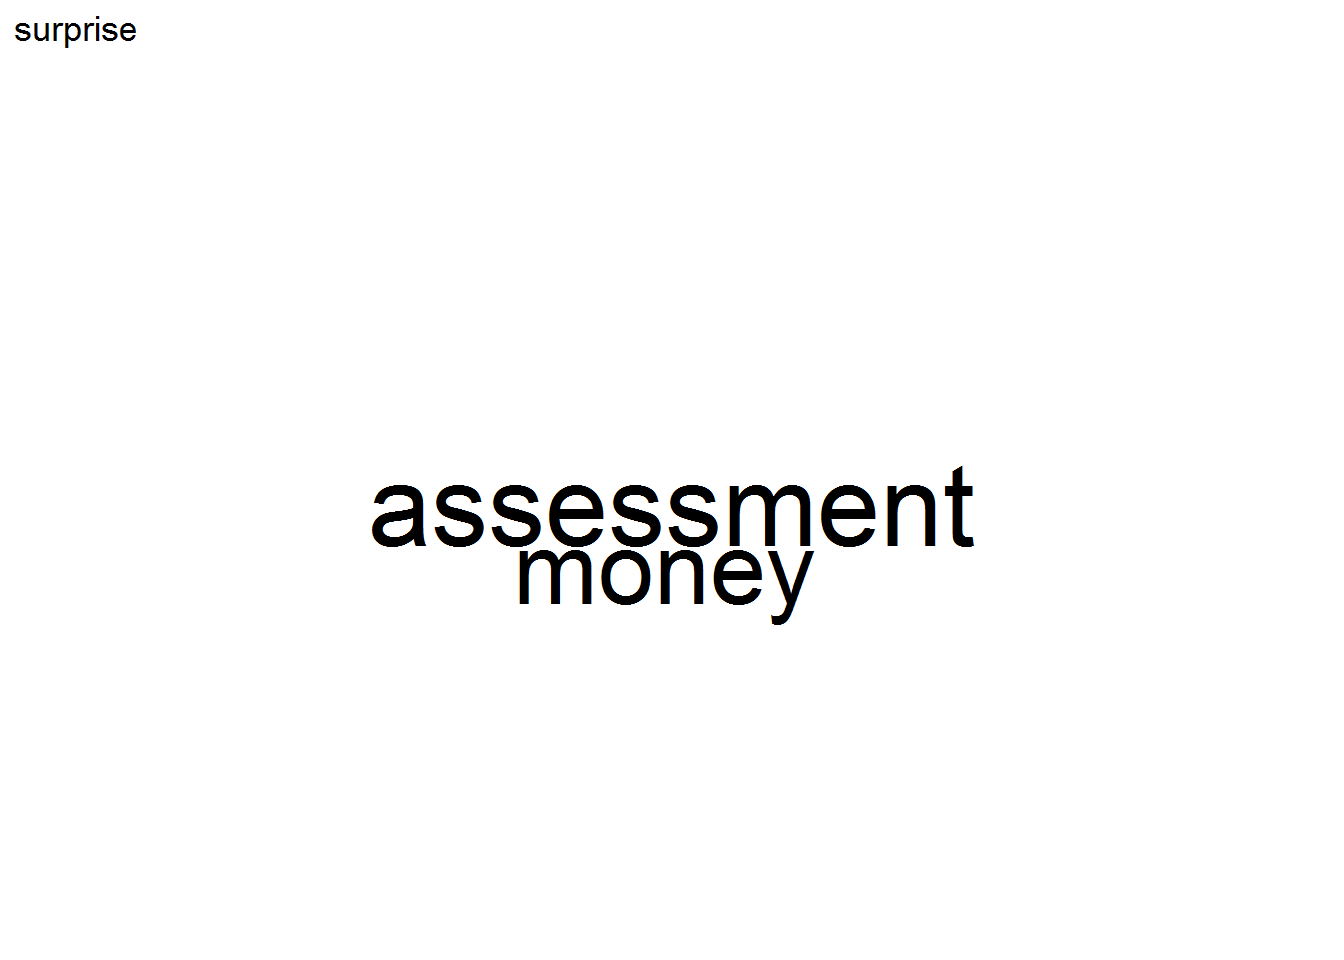
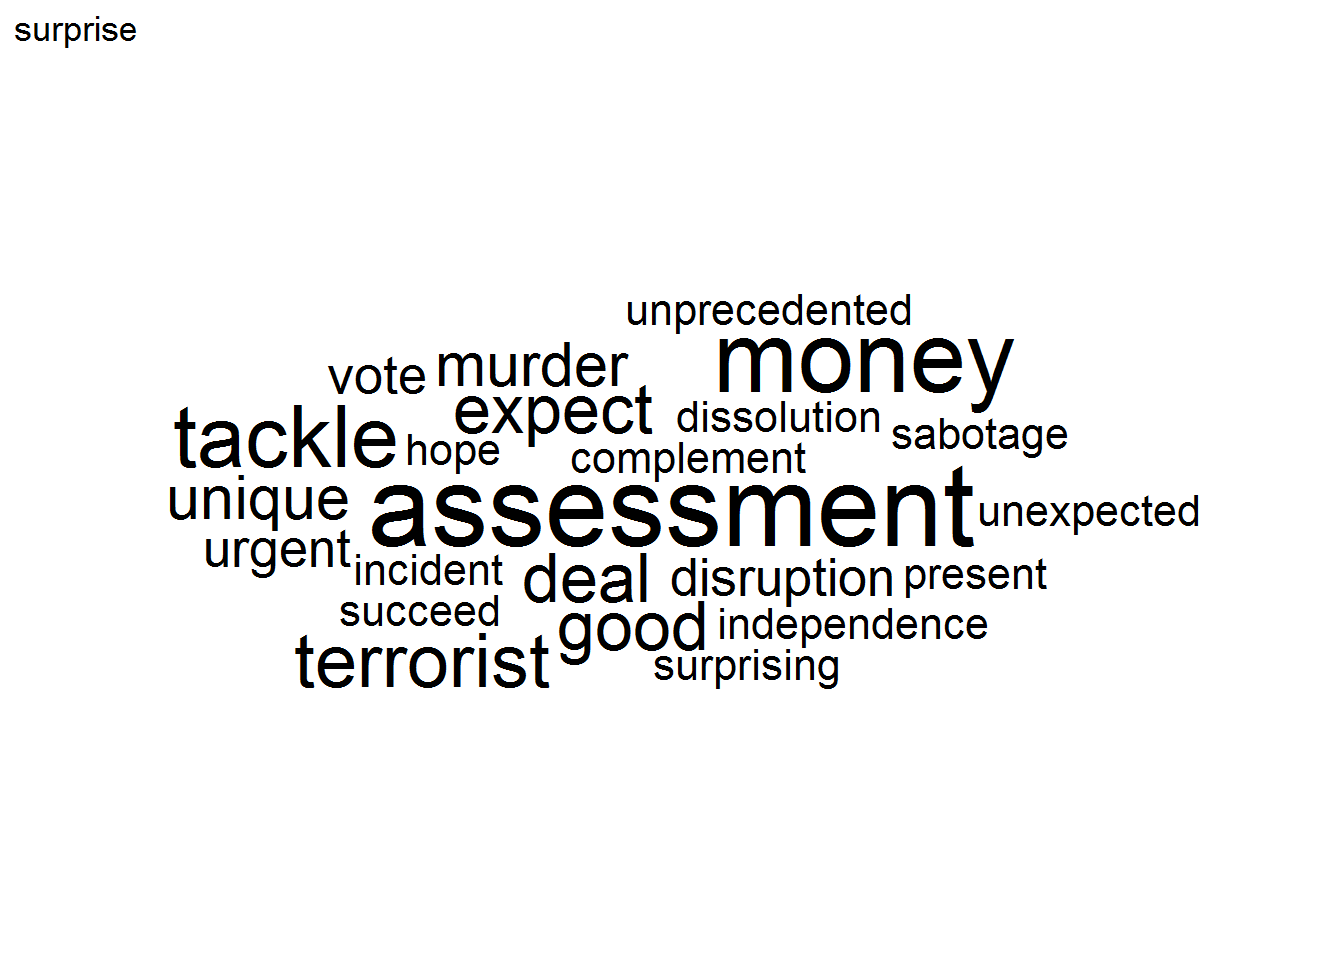
updated clouds

Changed region(s): [[0.125, 0.3125, 0.9062, 0.7188]]

diff --git a/index.html b/index.html
@@ -508,8 +508,8 @@ rr_sentences %&gt;%
   kable()</code></pre>
 <table>
 <colgroup>
-<col width="0%" />
-<col width="99%" />
+<col width="2%" />
+<col width="97%" />
 </colgroup>
 <thead>
 <tr class="header">
@@ -519,24 +519,24 @@ rr_sentences %&gt;%
 </thead>
 <tbody>
 <tr class="odd">
-<td align="right">22</td>
-<td align="left">What is now clear is that it was in fact counter-productive, in that it offered ideal mechanisms by which illicit finance could be recycled through what has been referred to as the London ‘laundromat’.</td>
+<td align="right">9</td>
+<td align="left">1 There is, of course, also a long history of hostile engagement between the Russian – and previously Soviet – intelligence services and their UK counterparts.</td>
 </tr>
 <tr class="even">
-<td align="right">13</td>
-<td align="left">Indeed, there are a number of other Ministers with some form of responsibility for cyber – the Defence Secretary has overall responsibility for Offensive Cyber as a ‘warfighting tool’ and for the National Offensive Cyber Programme, while the Secretary of State for the Department for Digital, Culture, Media and Sport (DCMS) leads on digital matters, with the Chancellor of the Duchy of Lancaster being responsible for the National Cyber Security Strategy and the National Cyber Security Programme.</td>
+<td align="right">41</td>
+<td align="left">128 Oral evidence – MI5, *** January 2019.</td>
 </tr>
 <tr class="odd">
-<td align="right">9</td>
-<td align="left">1 7.</td>
+<td align="right">45</td>
+<td align="left">In terms of its ‘near abroad’, Russia clearly intends keeping these countries within its ‘sphere of influence’, and conducts cyber activity and pursues economic policy to that end in ***.</td>
 </tr>
 <tr class="even">
 <td align="right">32</td>
-<td align="left">The Home Secretary holds ministerial responsibility for MI5, the Foreign Secretary for SIS and GCHQ, and the Defence Secretary for Defence Intelligence.</td>
+<td align="left">However, we understand that no direct lessons have been drawn from CONTEST in drawing up and implementing the Strategy.</td>
 </tr>
 <tr class="odd">
-<td align="right">25</td>
-<td align="left">The Salisbury attack has highlighted the vulnerability of former Russian intelligence officers who have settled in the UK.</td>
+<td align="right">20</td>
+<td align="left">49,50 ***.</td>
 </tr>
 </tbody>
 </table>
@@ -1704,7 +1704,7 @@ rr_sentiment &lt;- rr_sentiment %&gt;%
     filter(sentiment == theSentiment) %&gt;%
     group_by(word) %&gt;%
     count() %&gt;%
-    filter(n &gt;= 10) %&gt;%
+    filter(n &gt;= 2) %&gt;%
     ggplot(aes(label = word, size = n)) +
     scale_size_area(max_size = 15) +
     geom_text_wordcloud() +
